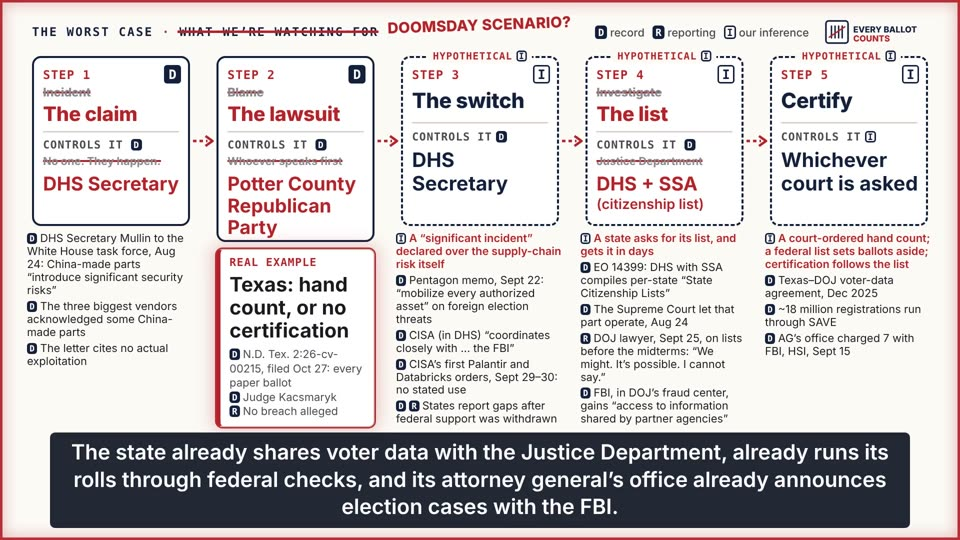
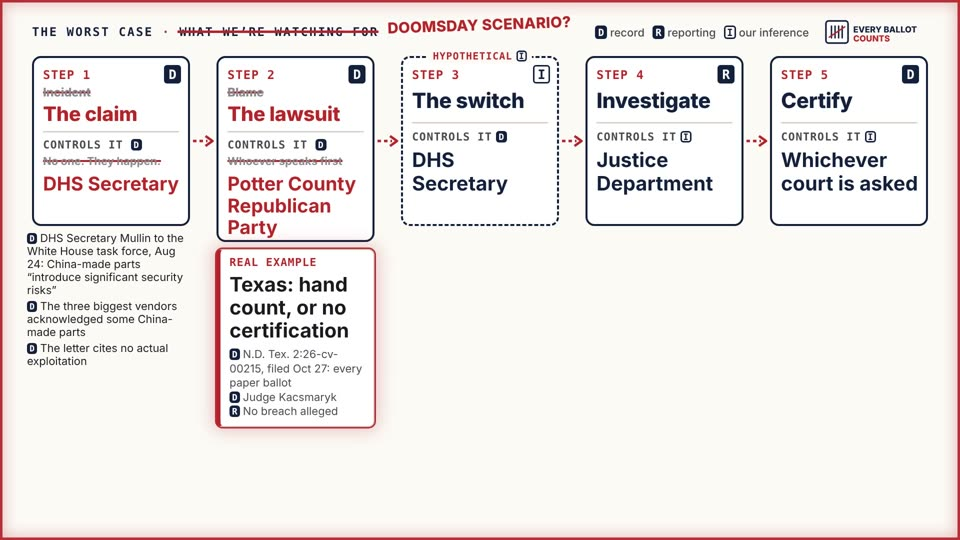
Homepage videos play from YouTube (privacy-enhanced embed, loads on click)
Claude-Session: https://claude.ai/code/session_01FzfMTbNVyRU7XpffsrV2HZ

diff --git a/index.html b/index.html
@@ -26,7 +26,7 @@ description: The federal government built itself a way to decide who's a "real" 
     </div>
     <div>
       <div class="hero-video">
-        <video controls preload="none" playsinline poster="{{ v }}posters/feature.jpg" src="{{ v }}EBC_Feature_Overview_v1.mp4"></video>
+        <button class="yt" type="button" data-yt="G9tD0gYd-ts" style="background-image:url({{ v }}posters/feature.jpg)" aria-label="Play video"><span class="play"></span></button>
       </div>
       <p class="hero-cap"><b>Watch this first:</b> Who decides who's a real voter? (13 min) · how it was built, one real case, what to watch for.</p>
     </div>
@@ -49,24 +49,24 @@ description: The federal government built itself a way to decide who's a "real" 
   <div class="wrap">
     <p class="eyebrow">Videos</p>
     <h2>Watch, then share</h2>
-    <p class="sub">Every claim on screen is marked: <span class="m">D</span> document, <span class="m">R</span> reporting, <span class="m">I</span> our inference. More on <a href="https://www.youtube.com/@EveryBallotCounts">YouTube</a>.</p>
+    <p class="sub">Every claim on screen is marked: <span class="m">D</span> document, <span class="m">R</span> reporting, <span class="m">I</span> our inference. Subscribe on <a href="https://www.youtube.com/@EveryBallotCounts">YouTube</a>.</p>
     <div class="vid-main">
       <div class="vcard">
-        <video controls preload="none" playsinline poster="{{ v }}posters/worst_case.jpg" src="{{ v }}EBC_Worst_Case_v3.mp4"></video>
+        <button class="yt" type="button" data-yt="8sdLT64NltQ" style="background-image:url({{ v }}posters/worst_case.jpg)" aria-label="Play video"><span class="play"></span></button>
         <div class="body"><span class="len">7 min</span><h3>The worst case</h3><p>The four pieces already in place, how they could fit together, a clearly labeled "doomsday" hypothetical, and what stops it.</p></div>
       </div>
       <div class="vcard">
-        <video controls preload="none" playsinline poster="{{ v }}posters/feature.jpg" src="{{ v }}EBC_Feature_Overview_v1.mp4"></video>
+        <button class="yt" type="button" data-yt="G9tD0gYd-ts" style="background-image:url({{ v }}posters/feature.jpg)" aria-label="Play video"><span class="play"></span></button>
         <div class="body"><span class="len">13 min</span><h3>Who decides who's a real voter?</h3><p>The full overview: how it used to work, the paper trail since 2025, the California list stop by stop, and what to do.</p></div>
       </div>
     </div>
     <div class="shorts">
-      <div class="short"><video controls preload="none" playsinline poster="{{ v }}posters/S0_Site_Tour.jpg" src="{{ v }}shorts/S0_Site_Tour.mp4"></video><p>Start here: a tour of the site</p></div>
-      <div class="short"><video controls preload="none" playsinline poster="{{ v }}posters/S1_Whats_New.jpg" src="{{ v }}shorts/S1_Whats_New.mp4"></video><p>What's New: v2026.10</p></div>
-      <div class="short"><video controls preload="none" playsinline poster="{{ v }}posters/S2_Privacy_Policy_Fraud_Center.jpg" src="{{ v }}shorts/S2_Privacy_Policy_Fraud_Center.mp4"></video><p>We've updated our Privacy Policy</p></div>
-      <div class="short"><video controls preload="none" playsinline poster="{{ v }}posters/S3_Package_Tracking_California.jpg" src="{{ v }}shorts/S3_Package_Tracking_California.mp4"></video><p>Your voter record is out for delivery</p></div>
-      <div class="short"><video controls preload="none" playsinline poster="{{ v }}posters/S4_Its_A_Match.jpg" src="{{ v }}shorts/S4_Its_A_Match.mp4"></video><p>It's a Match!</p></div>
-      <div class="short"><video controls preload="none" playsinline poster="{{ v }}posters/S5_Forecast_Emergency_Switch.jpg" src="{{ v }}shorts/S5_Forecast_Emergency_Switch.mp4"></video><p>Election-week forecast</p></div>
+      <div class="short"><button class="yt" type="button" data-yt="QbI1CEvJ6_Q" style="background-image:url({{ v }}posters/S0_Site_Tour.jpg)" aria-label="Play video"><span class="play"></span></button><p>Start here: a tour of the site</p></div>
+      <div class="short"><button class="yt" type="button" data-yt="3ebxFy0rkF0" style="background-image:url({{ v }}posters/S1_Whats_New.jpg)" aria-label="Play video"><span class="play"></span></button><p>What's New: v2026.10</p></div>
+      <div class="short"><button class="yt" type="button" data-yt="lcDbH2kaQLc" style="background-image:url({{ v }}posters/S2_Privacy_Policy_Fraud_Center.jpg)" aria-label="Play video"><span class="play"></span></button><p>We've updated our Privacy Policy</p></div>
+      <div class="short"><button class="yt" type="button" data-yt="Y8tx7PmbMCU" style="background-image:url({{ v }}posters/S3_Package_Tracking_California.jpg)" aria-label="Play video"><span class="play"></span></button><p>Your voter record is out for delivery</p></div>
+      <div class="short"><button class="yt" type="button" data-yt="cE-DVjk8tvM" style="background-image:url({{ v }}posters/S4_Its_A_Match.jpg)" aria-label="Play video"><span class="play"></span></button><p>It's a Match!</p></div>
+      <div class="short"><button class="yt" type="button" data-yt="ByPa9ThZiEo" style="background-image:url({{ v }}posters/S5_Forecast_Emergency_Switch.jpg)" aria-label="Play video"><span class="play"></span></button><p>Election-week forecast</p></div>
     </div>
   </div>
 </section>
@@ -217,6 +217,14 @@ description: The federal government built itself a way to decide who's a "real" 
     document.getElementById('tw-dates').hidden = false;
   }).catch(function(){});
 
+  document.querySelectorAll('button.yt').forEach(function(btn){
+    btn.addEventListener('click', function(){
+      var f = document.createElement('iframe');
+      f.src = 'https://www.youtube-nocookie.com/embed/' + btn.dataset.yt + '?autoplay=1&rel=0&playsinline=1';
+      f.title = 'Every Ballot Counts video'; f.allow = 'autoplay; encrypted-media; picture-in-picture; fullscreen'; f.allowFullscreen = true;
+      f.className = 'yt-frame'; btn.replaceWith(f);
+    });
+  });
   var b = document.getElementById('share-btn');
   b.addEventListener('click', function(){
     var data = {title: 'Every Ballot Counts', text: 'The federal government built itself a way to decide who\'s a "real" voter. Here\'s the fine print.', url: location.href.split('#')[0]};

diff --git a/assets/css/ebc.css b/assets/css/ebc.css
@@ -213,3 +213,14 @@ button.btn{font:inherit;font-weight:700;cursor:pointer}
 .tl-note{color:var(--mute);font-size:13.5px;max-width:80ch}
 @media (max-width:760px){.ev{grid-template-columns:1fr;gap:4px}.tl .mo{top:0}}
 .tl-controls .btn[aria-pressed="true"]{background:var(--navy);color:#fff}
+
+/* YouTube facade: poster + play button, swapped for the embed on click */
+button.yt{display:block;width:100%;border:0;padding:0;cursor:pointer;background:#000 center/cover no-repeat;position:relative}
+.hero-video button.yt,.vcard button.yt{aspect-ratio:16/9;height:100%}
+.short button.yt{aspect-ratio:9/16}
+button.yt .play{position:absolute;left:50%;top:50%;width:76px;height:54px;margin:-27px 0 0 -38px;background:#b4232a;border-radius:14px;box-shadow:0 6px 18px rgba(0,0,0,.3)}
+button.yt .play:after{content:"";position:absolute;left:30px;top:15px;border-style:solid;border-width:12px 0 12px 20px;border-color:transparent transparent transparent #fff}
+button.yt:hover .play{background:#97181f}
+.yt-frame{display:block;width:100%;border:0;background:#000}
+.hero-video .yt-frame,.vcard .yt-frame{aspect-ratio:16/9;height:auto}
+.short .yt-frame{aspect-ratio:9/16;height:auto}
